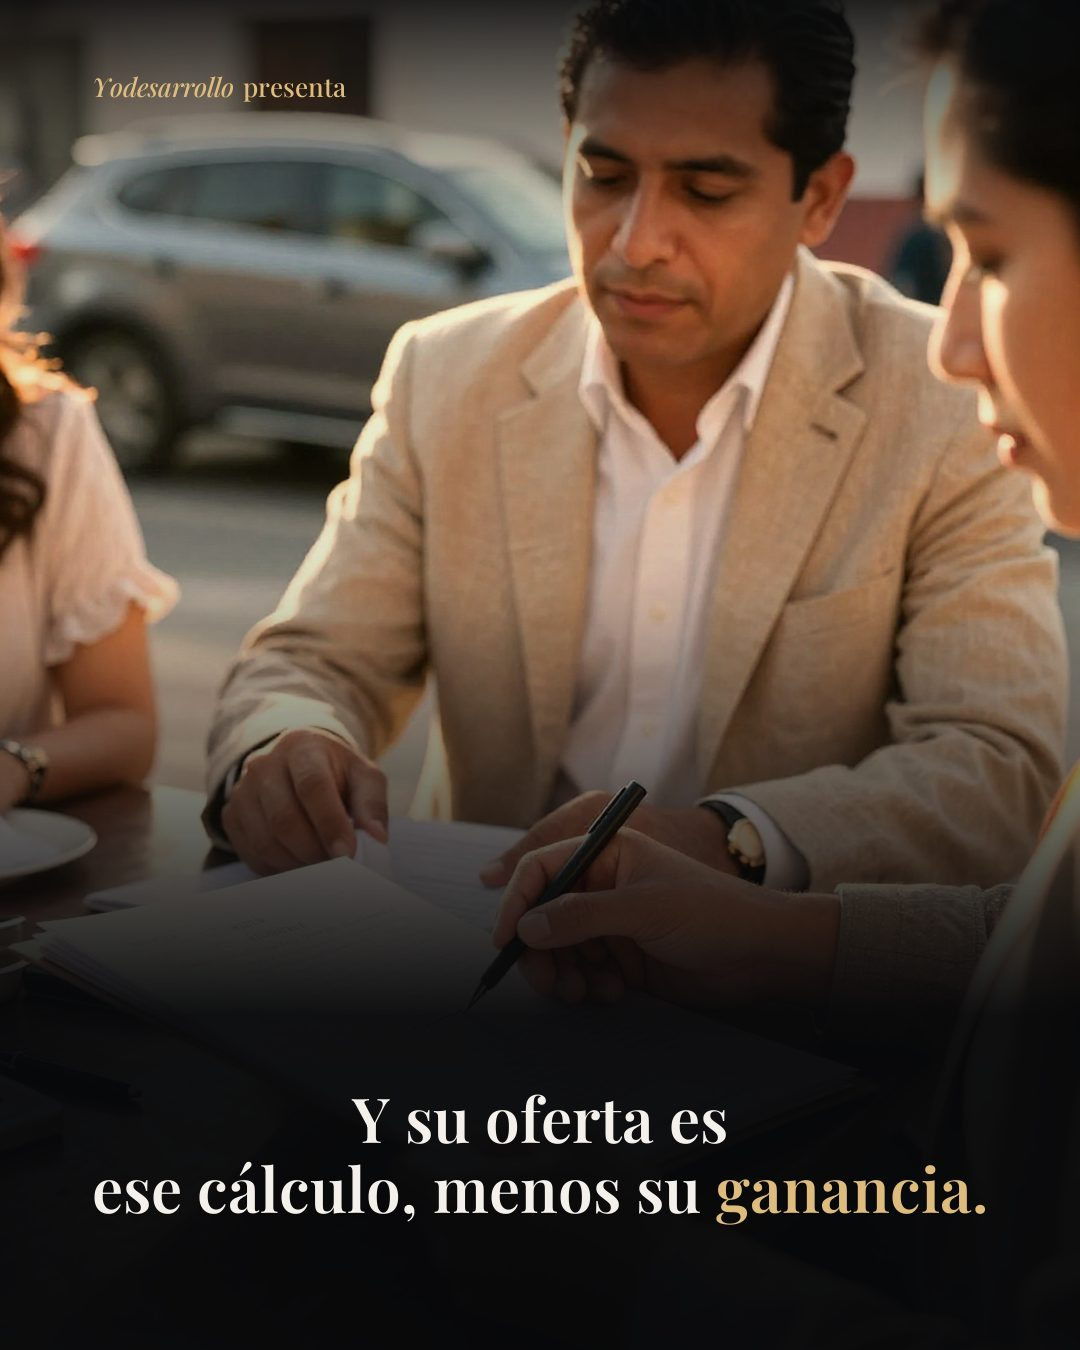
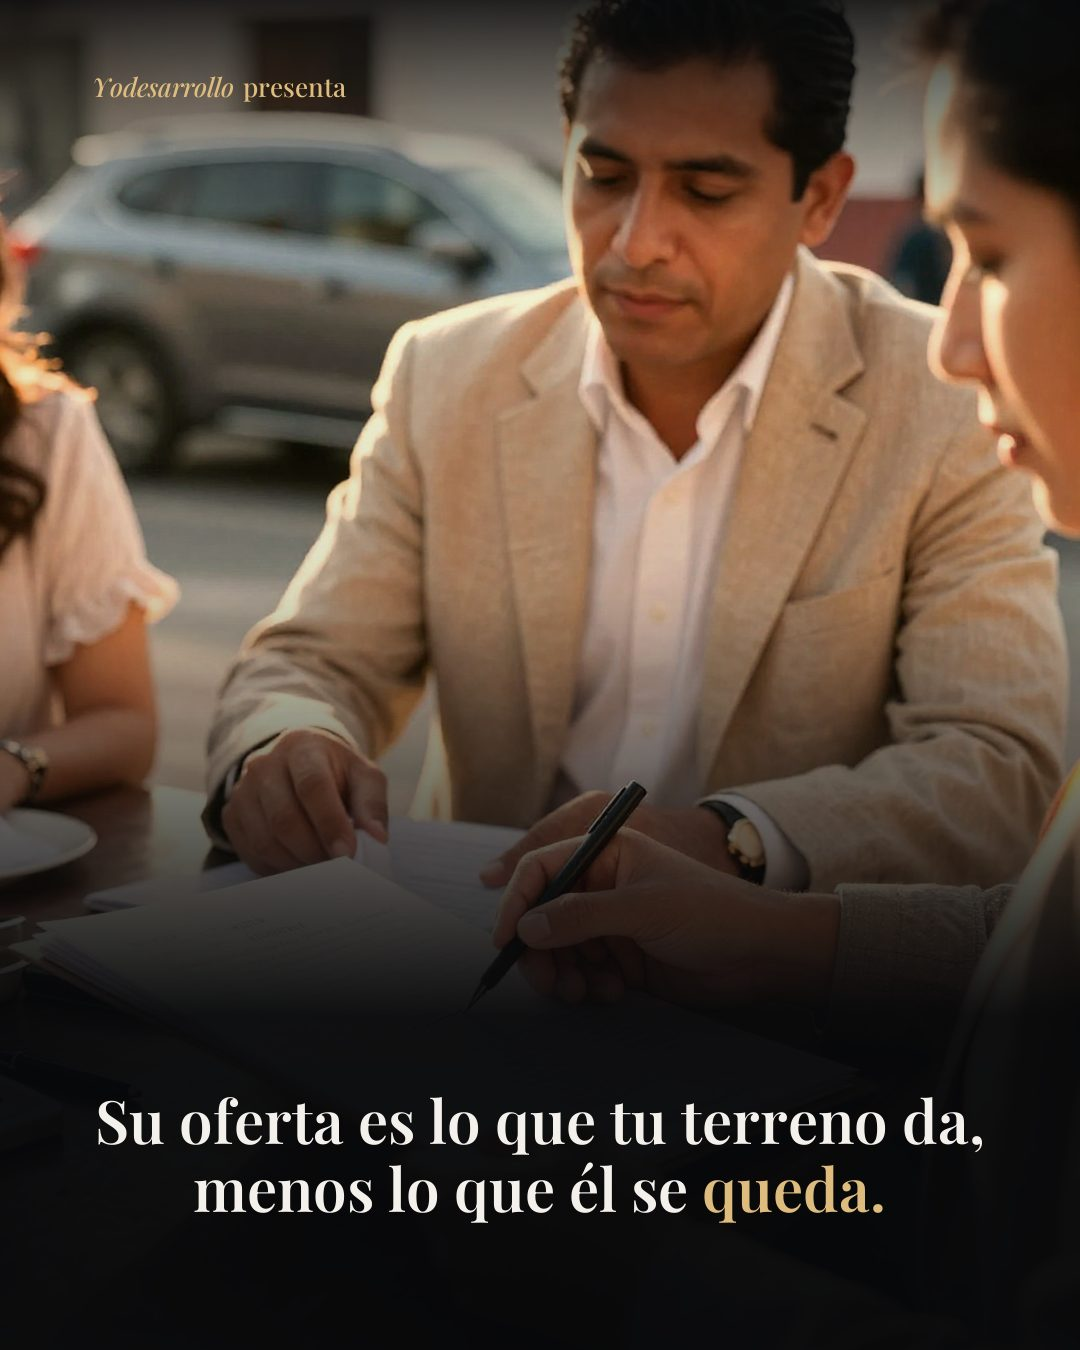
Sala: indicador de carga (barra+píldora) y caja «te espera → ir a decidir» en el expediente

Changed region(s): [[0.0917, 0.8089, 0.9167, 0.9022]]

diff --git a/index.html b/index.html
@@ -242,6 +242,21 @@ html.embed .app{padding-top:8px}
 .exp{position:fixed;inset:0;background:var(--fondo);z-index:30;overflow-y:auto;animation:entra .3s cubic-bezier(.2,.8,.2,1)}
 @keyframes entra{from{transform:translateY(26px);opacity:0}to{transform:none;opacity:1}}
 .exp-in{max-width:640px;margin:0 auto;padding:14px 18px 60px}
+
+/* indicador de carga (3-sep) */
+html.cargando::before{content:'';position:fixed;top:0;left:0;height:3px;width:100%;z-index:9999;pointer-events:none;
+  background:linear-gradient(90deg,transparent,var(--oro),transparent);background-size:40% 100%;animation:barra 1.1s linear infinite}
+@keyframes barra{from{background-position:-40% 0}to{background-position:140% 0}}
+#actualizando{position:fixed;top:calc(8px + env(safe-area-inset-top));left:50%;transform:translateX(-50%);z-index:9998;display:none;align-items:center;gap:8px;
+  padding:6px 12px;border-radius:999px;background:rgba(18,18,22,.92);border:1px solid rgba(194,160,107,.5);color:var(--oro-cl);font-size:12px;font-weight:600;letter-spacing:.04em;pointer-events:none}
+html.cargando #actualizando{display:flex}
+#actualizando i{width:10px;height:10px;border-radius:50%;border:2px solid rgba(194,160,107,.35);border-top-color:var(--oro-cl);animation:gira .8s linear infinite}
+@keyframes gira{to{transform:rotate(360deg)}}
+.espera-caja{margin:0 0 14px;padding:14px 16px;border-radius:14px;background:rgba(194,160,107,.10);border:1px solid rgba(194,160,107,.45)}
+.espera-caja small{display:block;font-size:11px;letter-spacing:.16em;text-transform:uppercase;color:var(--oro);font-weight:600;margin-bottom:4px}
+.espera-caja p{margin:0 0 10px;font-size:15px;line-height:1.4}
+.espera-caja button{width:100%;padding:12px;border-radius:12px;border:0;background:var(--oro);color:#1a1408;font-weight:700;font-size:15px;cursor:pointer}
+.espera-caja .nota-esp{font-size:13px;color:var(--gris);margin:0}
 .exp-top{position:sticky;top:0;background:var(--fondo);padding:10px 0 12px;z-index:2;display:flex;align-items:center;gap:12px}
 .volver{border:2px solid var(--linea2);background:var(--tarjeta);border-radius:14px;width:46px;height:46px;display:grid;place-items:center;flex:none}
 .volver svg{width:22px;height:22px}
@@ -279,7 +294,7 @@ html.embed .app{padding-top:8px}
 .fuente{font-size:11px;color:var(--guia);margin-top:6px;opacity:.8}
 a{color:var(--oro)}
 @media (prefers-reduced-motion: reduce){*{animation:none!important;transition:none!important}}
-</style></head><body>
+</style></head><body><div id="actualizando" role="status" aria-live="polite"><i></i>Actualizando…</div>
 <script>if(new URLSearchParams(location.search).get('embed')==='1')document.documentElement.classList.add('embed');</script>
 
 <div class="app">
@@ -334,6 +349,15 @@ const uuid=()=>('xxxxxxxxyxxx'.replace(/[xy]/g,c=>{const r=Math.random()*16|0;re
 const hora=()=>new Date().toLocaleTimeString('es-MX',{hour:'2-digit',minute:'2-digit'});
 function leerLS(k,def){ try{ const v=JSON.parse(localStorage.getItem(k)||'null'); return v===null?def:v }catch(e){ return def } }
 async function leerJSON(r){ try{ return JSON.parse(await r.text()) }catch(e){ return null } }
+/* INDICADOR DE CARGA (3-sep): «no sé cuándo está cargando». Cada fetch cuenta; mientras
+   haya alguno vivo se ve la barra dorada arriba y la píldora «Actualizando…». */
+let _vivos=0;
+const _fetch0=window.fetch.bind(window);
+window.fetch=async function(...a){
+  _vivos++; document.documentElement.classList.add('cargando');
+  try{ return await _fetch0(...a) }
+  finally{ _vivos=Math.max(0,_vivos-1); if(!_vivos) document.documentElement.classList.remove('cargando') }
+};
 const bloquear=on=>document.body.classList.toggle('bloqueado',!!on);
 /* Las láminas PNG pesan ~1.5 MB; la carta pide primero la versión .jpg (~200 KB) y
    si no existe cae al PNG. En 4G esto es la diferencia entre carta negra y carta al instante. */
@@ -772,6 +796,27 @@ function pintarTren(){
     return `<button class="vagon ${estCls(e.estado)}" data-n="${esc(n)}"><span class="mini">${src?`<img src="${esc(ligera(src))}" alt="" loading="lazy">`:''}${e.estado==='publicada'?'<span class="candado">🔒</span>':''}<span class="est">${estTxt(e.estado)}</span></span><span class="nom">${esc(n)}</span></button>` }).join('');
   document.querySelectorAll('.vagon').forEach(v=>v.onclick=()=>abrirExp(v.dataset.n));
 }
+
+/* «TE ESPERA» (3-sep): qué espera de ti y el botón para ir a decidirlo */
+function pasoPendienteDe(nombre){
+  const claves=nombre.toLowerCase().replace(/[¿?¡!]/g,'').split(/\s+/).filter(w=>w.length>3);
+  for(let k=0;k<pasos.length;k++){
+    const x=pasos[k]; const txt=JSON.stringify(x.p||{}).toLowerCase();
+    if(!claves.some(w=>txt.includes(w))) continue;
+    const d=dec[x.pid]; if(!d) continue;
+    const vacio = x.tipo==='lamina' ? !d.laminas[x.i] : !d._eje;
+    if(vacio) return k;
+  }
+  return -1;
+}
+function esperaHTML(nombre){
+  const z=(PZ&&PZ.piezas||[]).find(q=>q.pieza===nombre); if(!z||z.estado!=='te espera') return '';
+  const k=pasoPendienteDe(nombre);
+  return `<div class="espera-caja"><small>Te espera tu palabra</small><p>${esc(z.siguiente||'Hay una decisión tuya pendiente.')}</p>
+    ${k>=0?`<button onclick="irADecidir(${k})">Ir a decidir →</button>`
+          :`<p class="nota-esp">Ya la decidiste en este aparato o la carta llega en la próxima corrida. Si quieres cambiarla: engrane ⚙ → «Ver mis respuestas».</p>`}</div>`;
+}
+function irADecidir(k){ document.querySelectorAll('.exp').forEach(e=>e.remove()); bloquear(false); idx=k; cerrarHojas(); pintarCartas(); window.scrollTo(0,0) }
 function abrirExp(nombre){
   const e=EXP[nombre]; if(!e) return; bloquear(true);
   const d=document.createElement('div'); d.className='exp';
@@ -779,6 +824,7 @@ function abrirExp(nombre){
   let resultado=e.resultado;
   if(nombre==='La Servilleta'&&METR&&METR[0]&&METR[0].ig&&!METR[0].ig.error){ const g=METR[0].ig; resultado=[[String(g.views??'–'),'vistas IG'],[String(g.reach??'–'),'alcance'],[String(g.likes??'–'),'me gusta']] }
   d.innerHTML=`<div class="exp-in"><div class="exp-top"><button class="volver" aria-label="Volver"><svg viewBox="0 0 24 24" fill="none" stroke="currentColor" stroke-width="2.6" stroke-linecap="round" stroke-linejoin="round"><path d="M15 18l-6-6 6-6"/></svg></button><h2>${esc(nombre)}</h2><span class="chip-est ${estCls(e.estado)||'idea'}">${estTxt(e.estado)}</span></div>
+    ${esperaHTML(nombre)}
     ${resultado?`<div class="result">${resultado.map(r=>`<div><b>${esc(r[0])}</b><span>${esc(r[1])}</span></div>`).join('')}</div>`:''}
     ${e.post?`<a class="verpost" href="${esc(e.post)}" target="_blank" rel="noopener">Ver la publicación ↗</a>`:''}
     ${(e.versiones||[]).length?`<div class="carrete">${e.versiones.map(v=>`<div class="ver ${v.viva?'viva':''}"><div class="mini2"><span class="tg">${v.viva?'LA BUENA':esc((v.tag||'').toUpperCase())}</span></div><small>${esc(v.fecha||'')}</small></div>`).join('')}</div>`:''}
